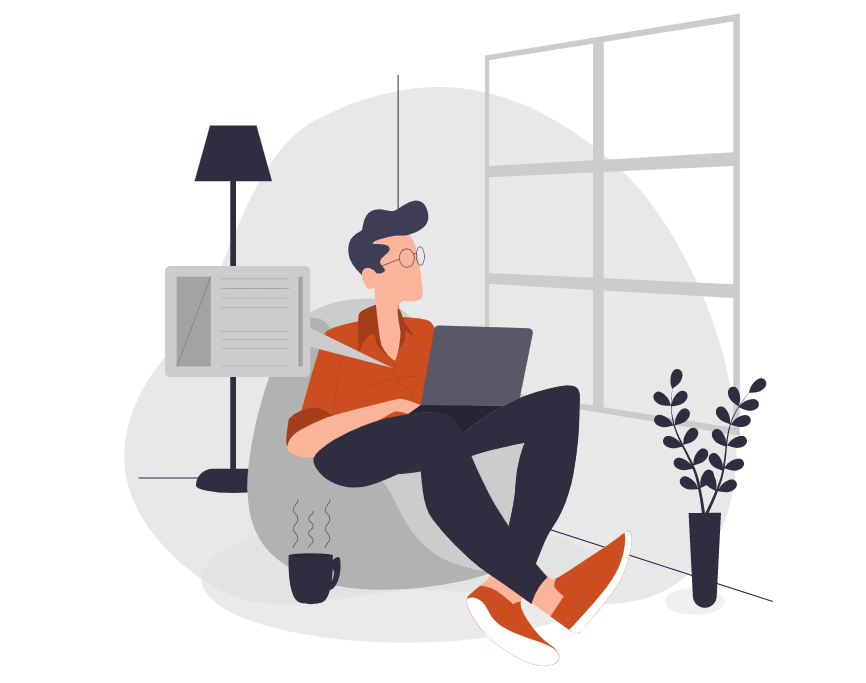
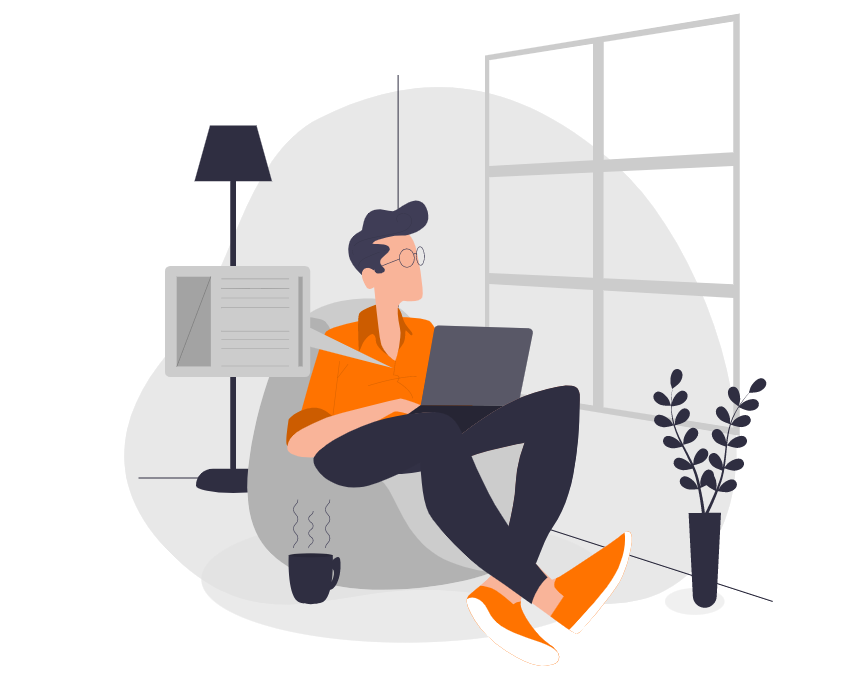
changes

Changed region(s): [[0.3118, 0.4305, 0.4988, 0.6457], [0.53, 0.7687, 0.7171, 0.9531]]

diff --git a/src/routes/header/header.css b/src/routes/header/header.css
@@ -20,12 +20,12 @@
 }
 .header-container-img{
     position: absolute;
-    top: 100px;
-    left: 300px;
+    top: 40px;
+    left: 240px;
 }
 .header-img{
-    max-width: 400px;
-    max-height: 400px;
+    max-width: 500px;
+    max-height: 500px;
 }
 .header-bubbles{
     position: relative;

diff --git a/src/components/text-animation-header/textAnimationHeader.css b/src/components/text-animation-header/textAnimationHeader.css
@@ -3,7 +3,7 @@
     float: left;
     position: relative;
     letter-spacing: 2px;
-    color: rgb(170, 63, 63);
+    color: #ff7300;
     font-size: 65px;
 }
 .header-text-dinamic-span{

diff --git a/src/components/navbar/navbar.css b/src/components/navbar/navbar.css
@@ -17,7 +17,7 @@
 
 .navbar-left-text {
     font-family: 'Quintessential', cursive;
-    color: rgb(163, 85, 85);
+    color: #5271FF;
     font-size: 35px;
 }
 
